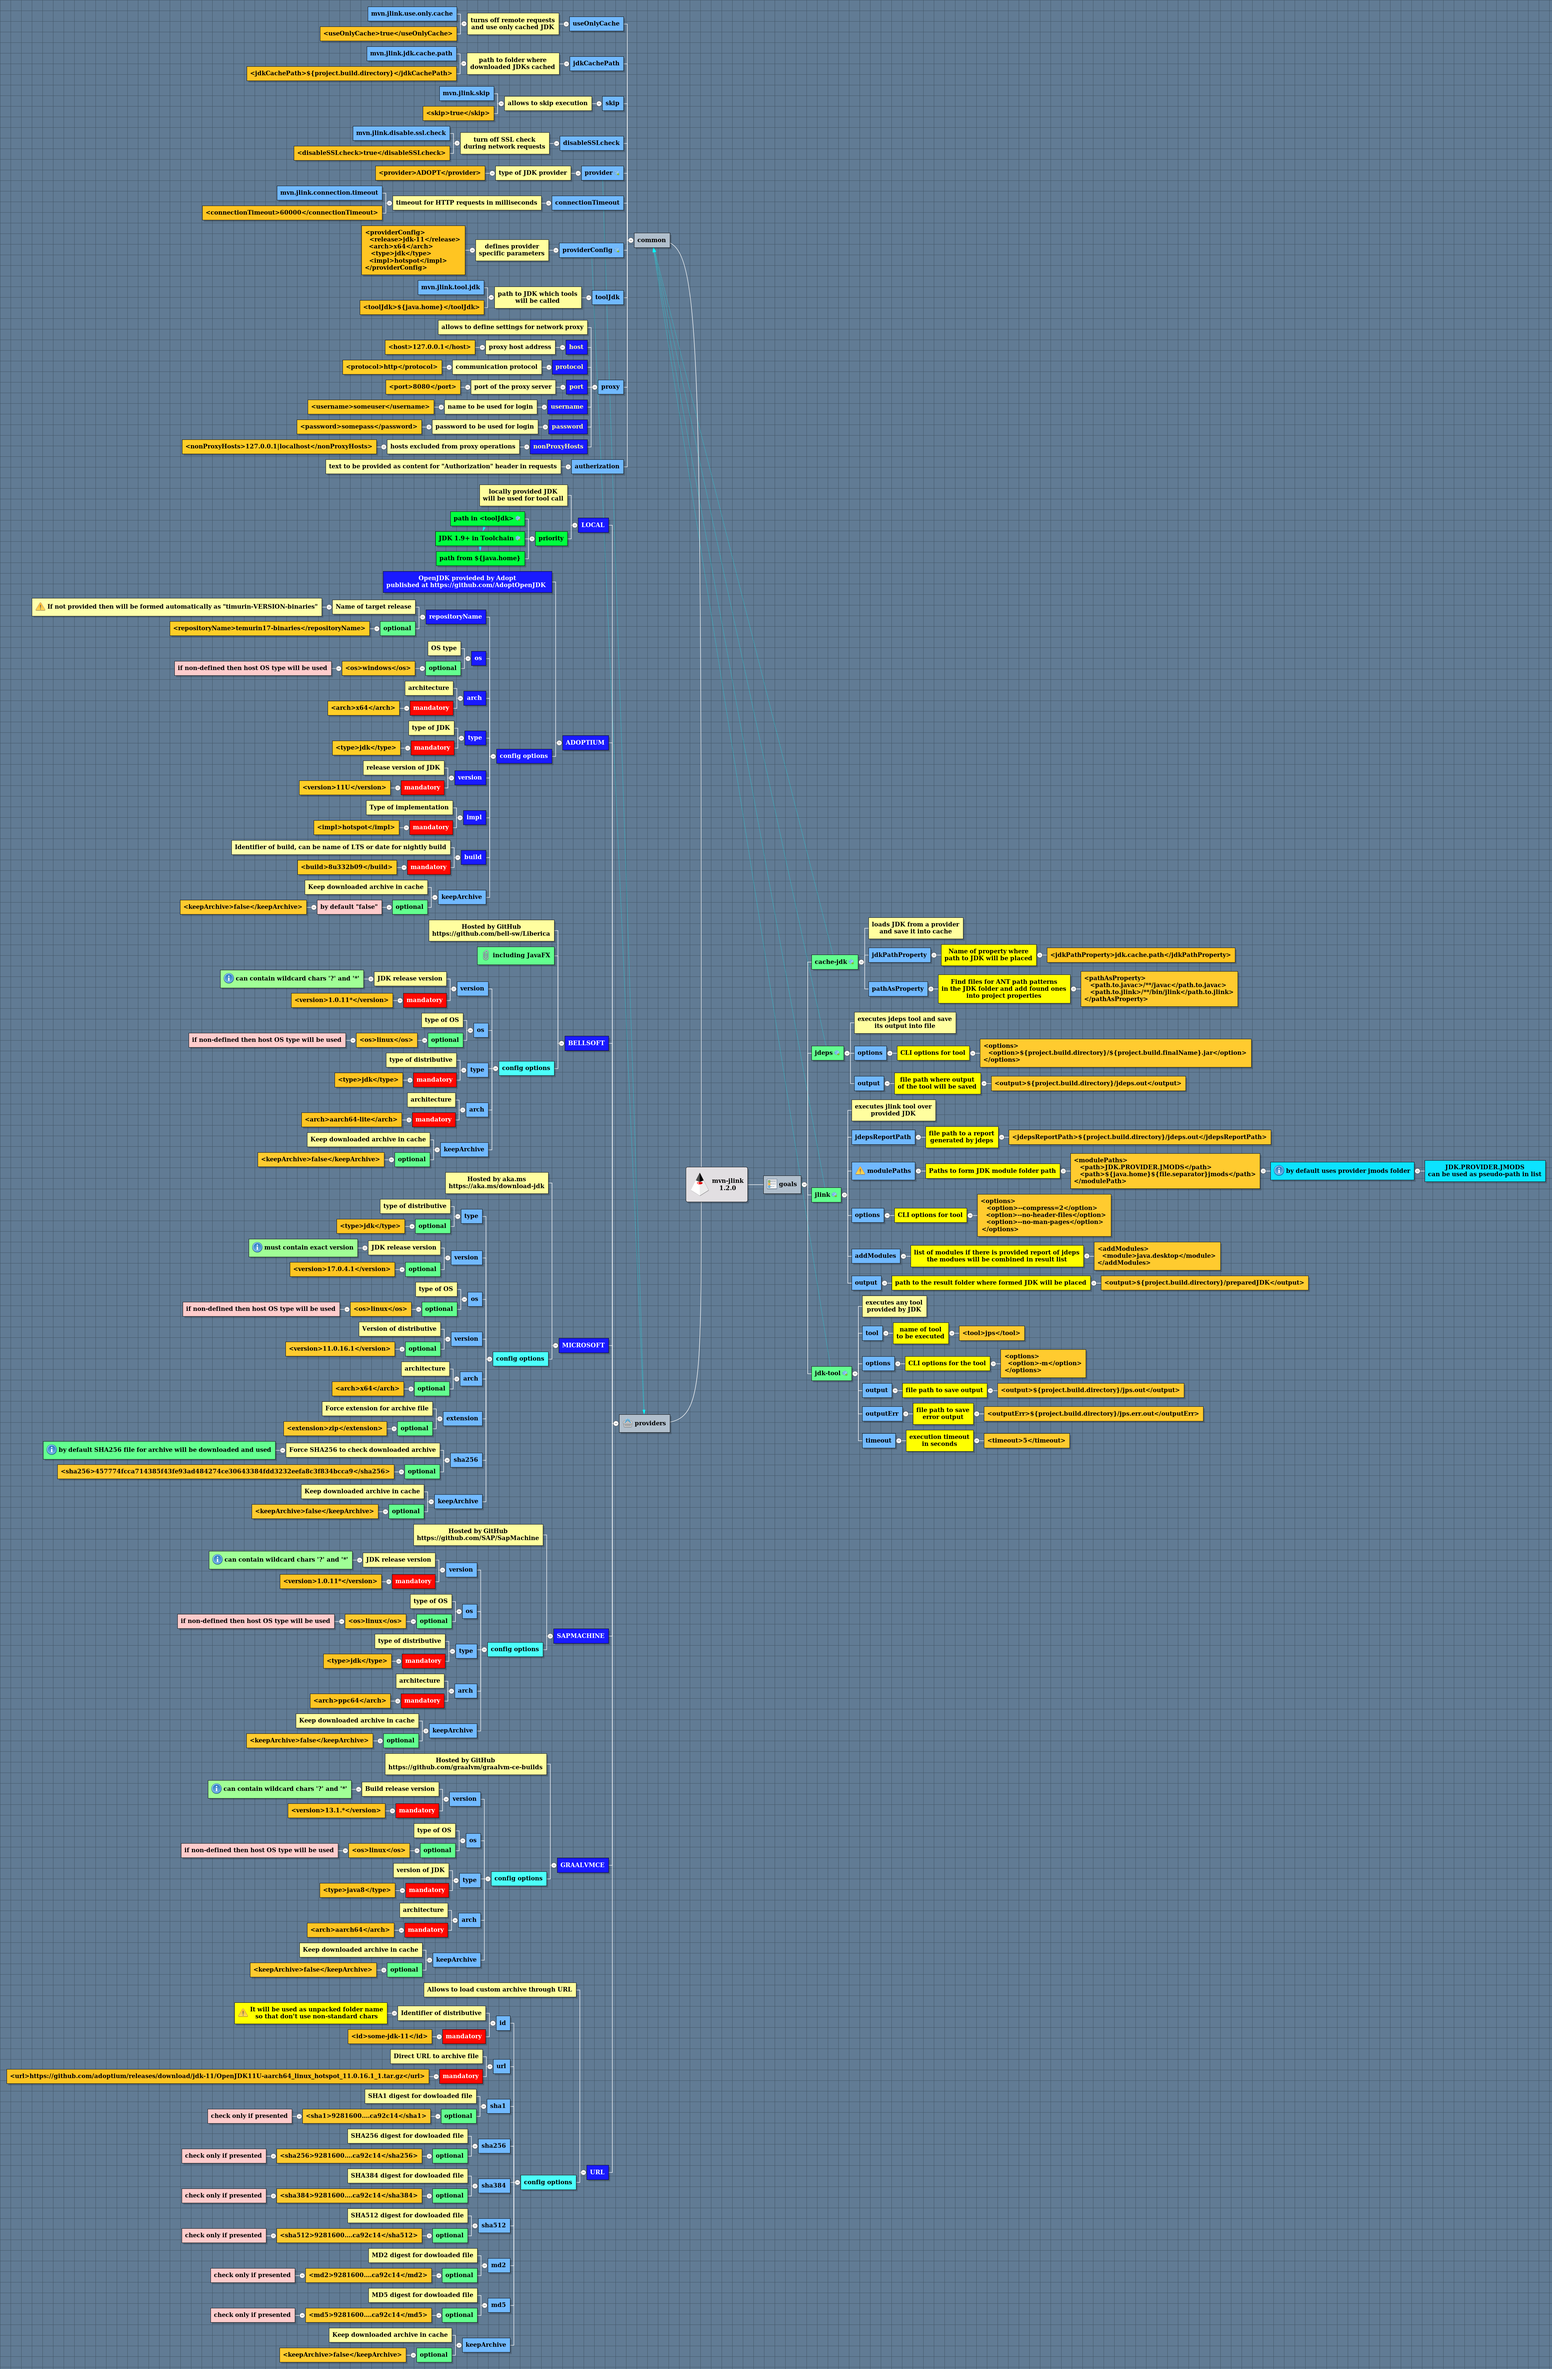
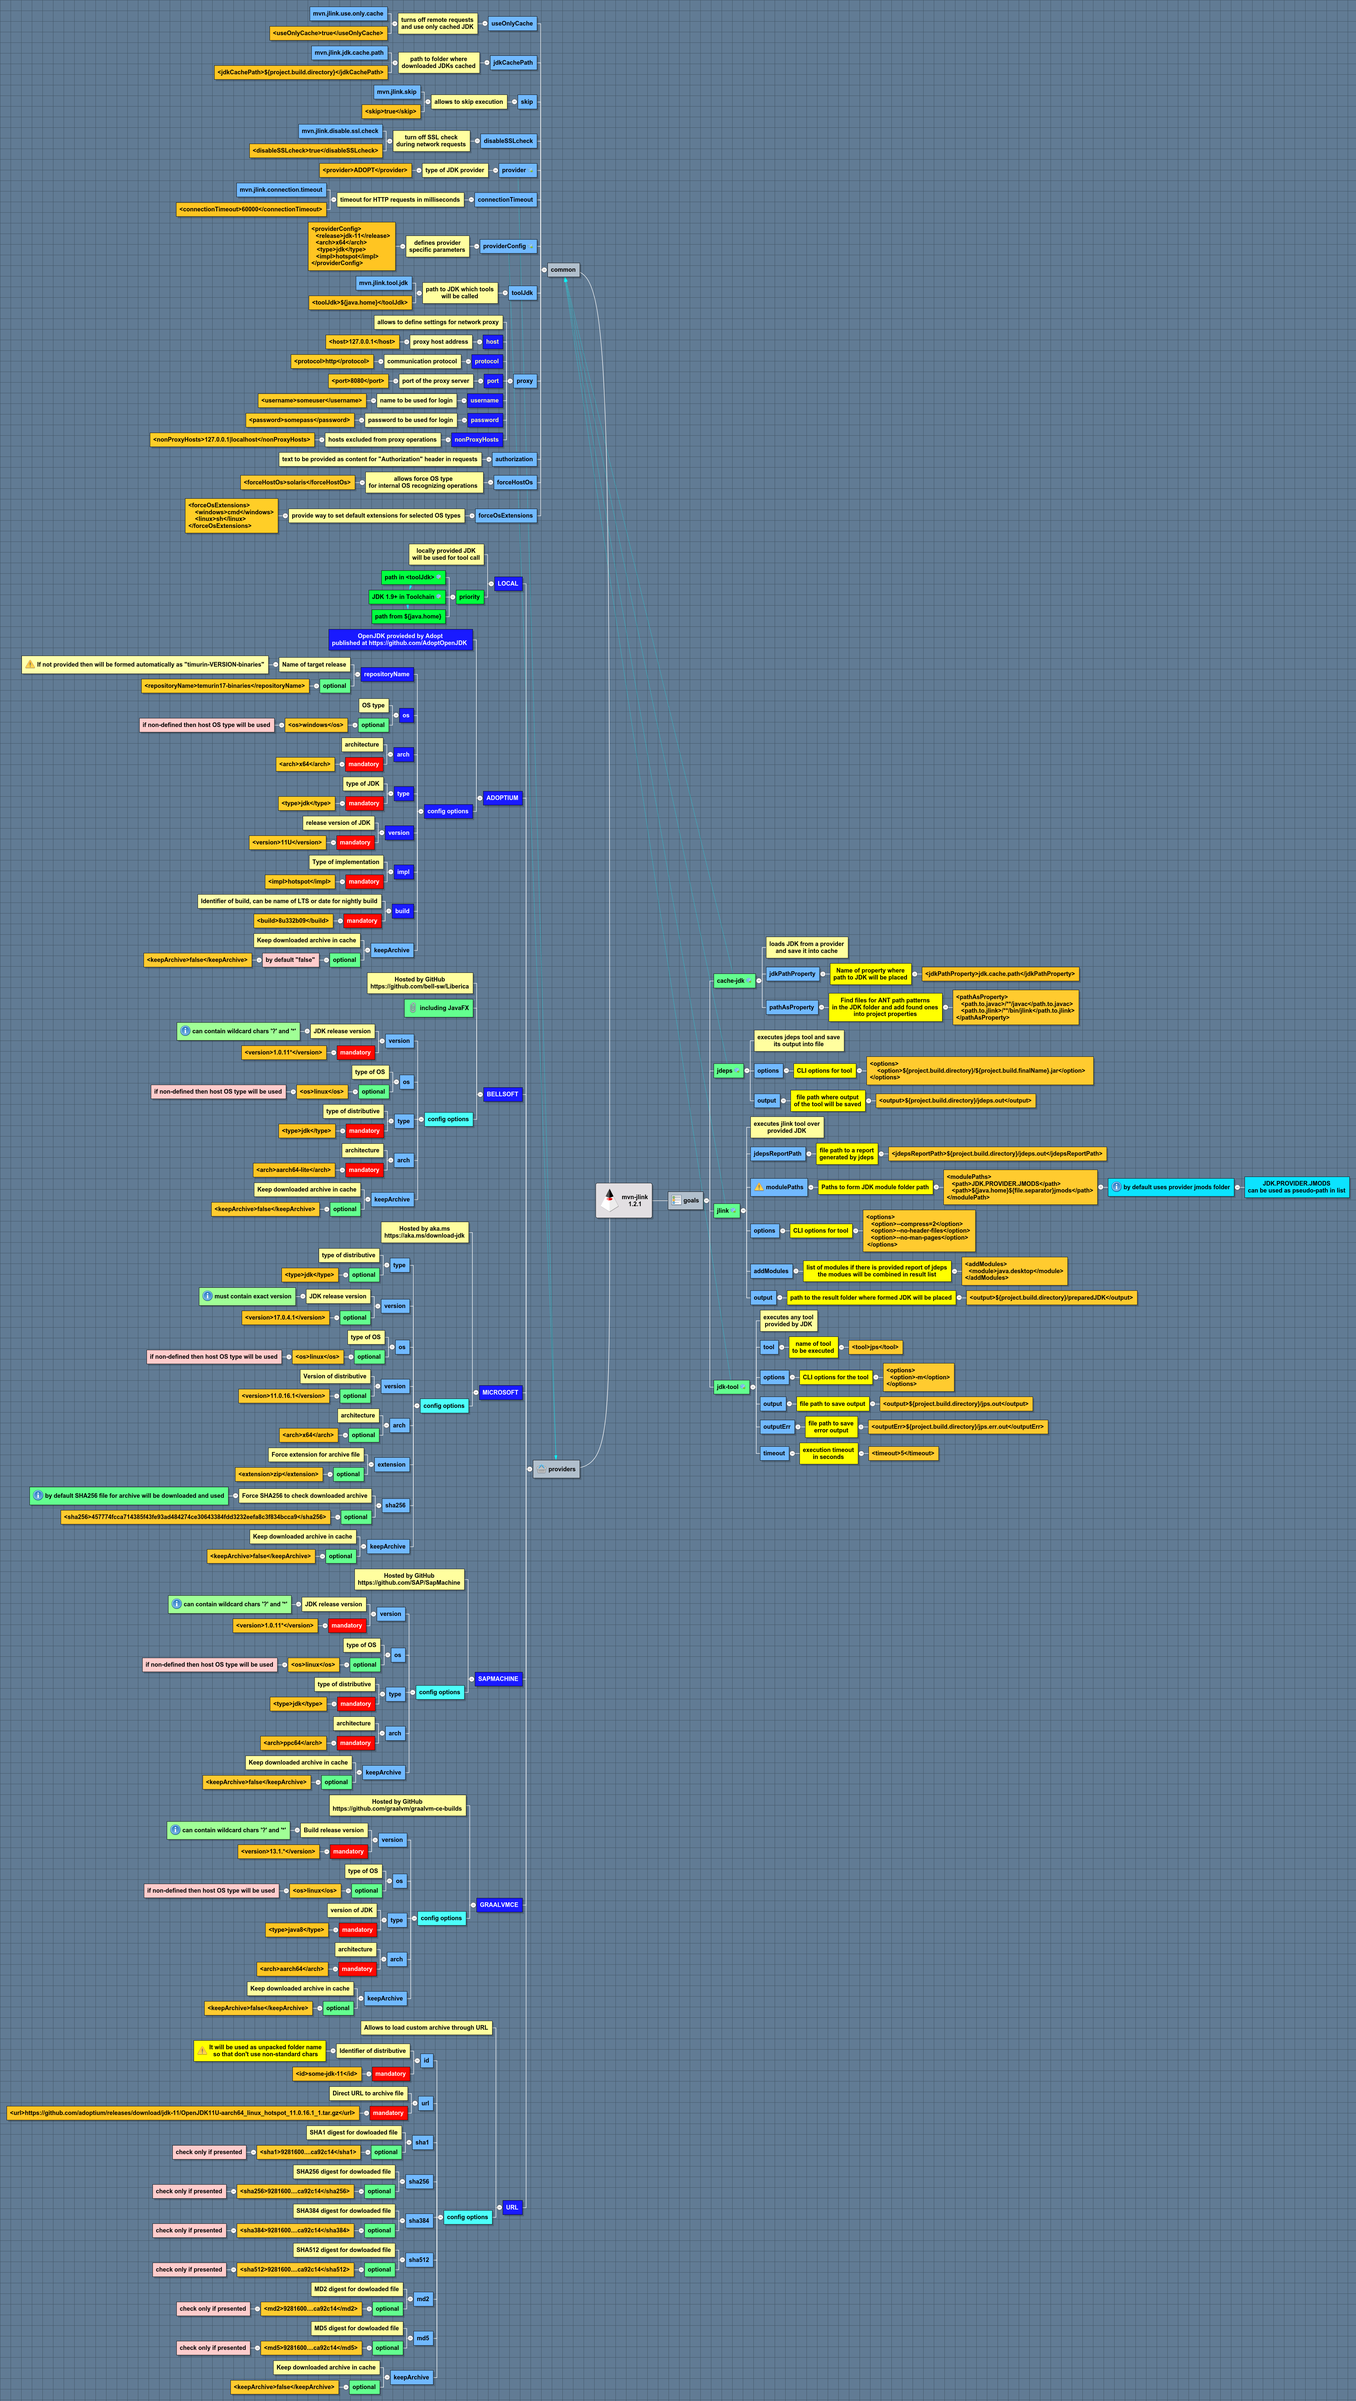
release 1.2.1

Changed region(s): [[0.0, 0.0, 1.0, 1.0], [0.5901, 0.0, 0.7144, 0.3122]]

diff --git a/README.md b/README.md
@@ -9,11 +9,12 @@
 
 # Changelog
 
-__1.2.1 (SNAPSHOT)__
+__1.2.1 (24-mar-2023)__
 
-- fixed incompatibility with Maven 3.9
-- provided way to force host OS type and replace extensions for OSes, through parameters `forceHostOs`
-  and `forceOsExtensions`
+- fixed incompatibility with maven 3.9
+- provided way to force tool file extensions per Os
+  through `forceOsExtensions` [#10](https://github.com/raydac/mvn-jlink/issues/10)
+- provided way to force host OS type through `forceHostOs`
 
 __1.2.0 (18-sep-2022)__
 
